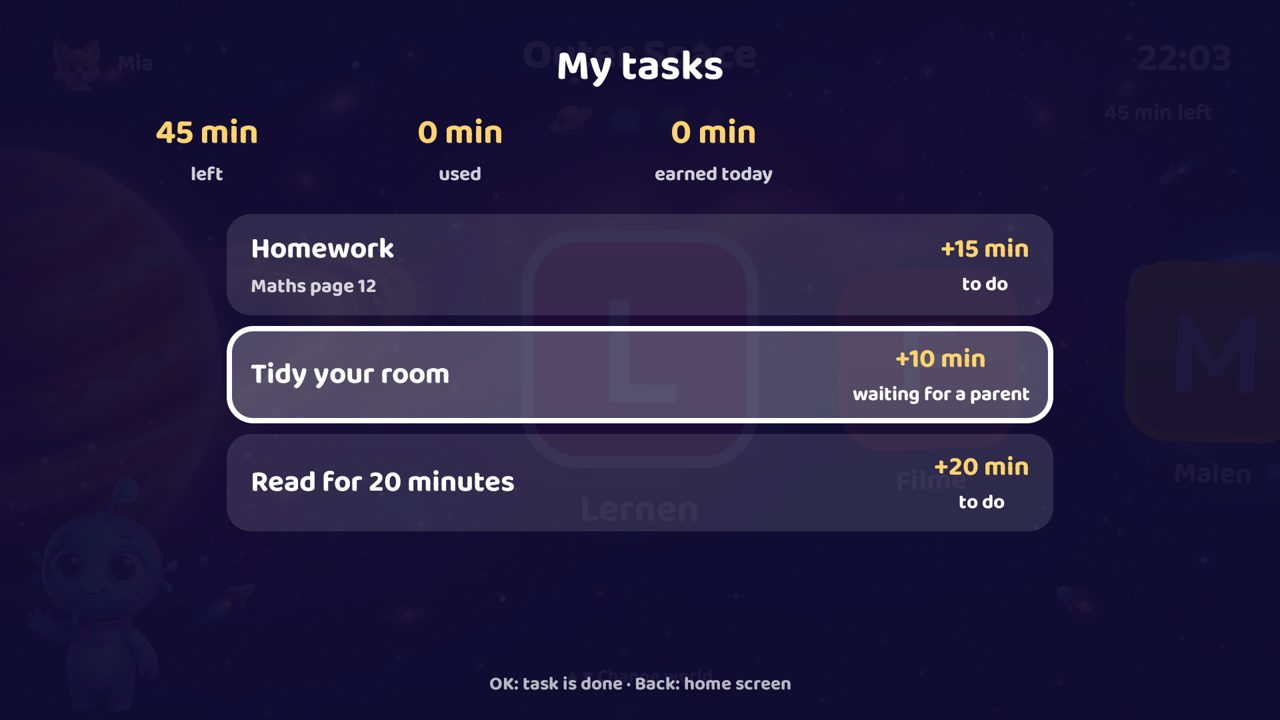
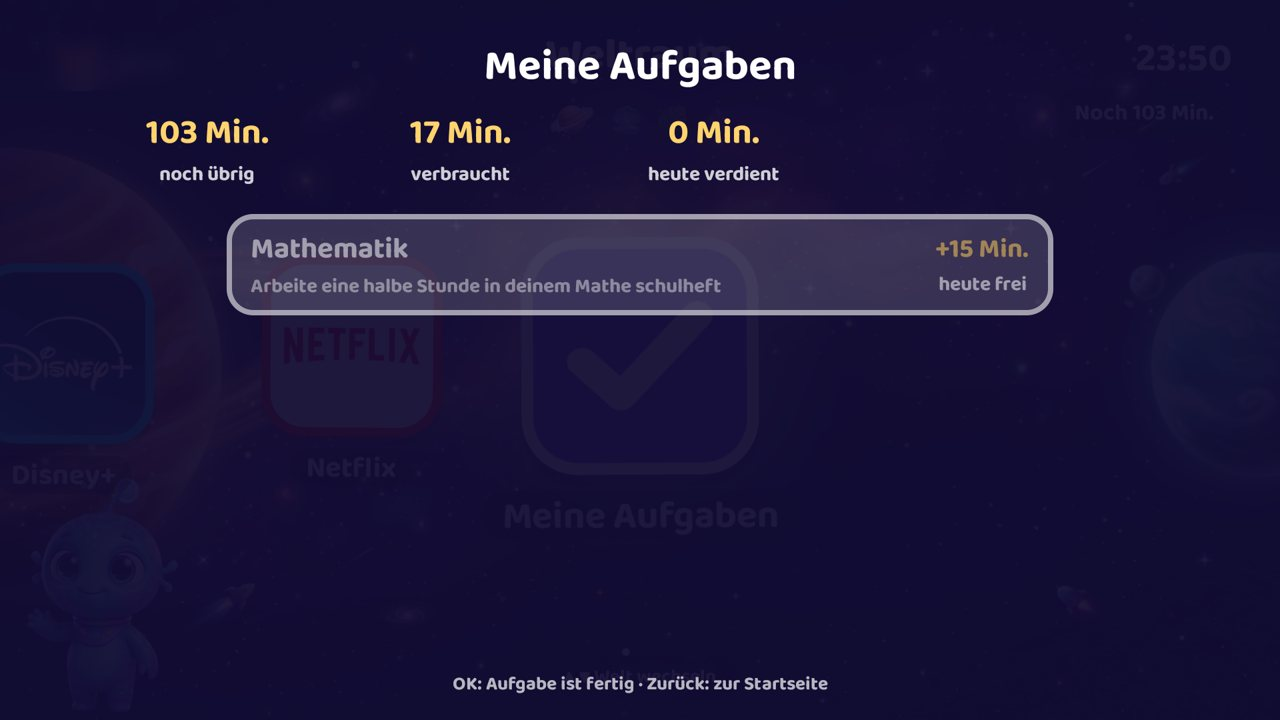
Guard failure visible, sessions end, local requests only, pictures from the stick

diff --git a/kidsmode/res/raw/sc_remote.html b/kidsmode/res/raw/sc_remote.html
@@ -46,13 +46,13 @@ label{display:block;font-size:14px;color:#d9d6ee}
 <script>
 var token=null,data=null,current=null,view='confirm',draft='',editing=null;
 var lang='%LANG%';
-var EN={"Eltern-PIN":"Parent PIN","Code vom Fernseher":"Code from the TV","Anmelden":"Sign in","KidsWorld Eltern":"Kids World Parents","Bestätigen":"Confirm","Aufgaben":"Tasks","Medienzeit":"Screen time","Nutzung":"Usage","Kinder":"Children","offen":"to do","wartet auf Bestätigung":"waiting for confirmation","bestätigt":"confirmed","abgelehnt":"rejected","Aufgabe":"Task","Korrektur":"Correction","Übertrag":"Carry-over","Uhr":"Clock","Keine Verbindung zum TV: TV aus, WLAN weg oder Wächter nicht aktiv. Die Anzeige ist nicht aktuell.":"No connection to the TV: TV off, no Wi-Fi or guard not running. This page is out of date.","Keine Verbindung zum TV. Bitte später prüfen, ob es gespeichert wurde.":"No connection to the TV. Please check later whether it was saved.","Zu viele Versuche. Bitte eine Minute warten.":"Too many attempts. Please wait a minute.","Bitte zuerst am TV eine PIN festlegen.":"Please set a PIN on the TV first.","Falscher Code":"Wrong code","Falsche PIN":"Wrong PIN","Dieses Handy ist neu: Bitte den Code vom Fernseher eingeben.":"This phone is new: please enter the code from the TV.","Keine offenen Bestätigungen.":"Nothing to confirm.","Begründung (freiwillig)":"Reason (optional)","Begründung":"Reason","Begründung: ":"Reason: ","Ablehnen":"Reject","Min.":"min","einmalig":"once","täglich":"daily","Neue Aufgabe":"New task","Noch keine Aufgaben.":"No tasks yet.","heute nicht dran":"not today"," · ohne Bestätigung":" · no confirmation","Bearbeiten":"Edit","Löschen":"Delete","Aufgabe löschen?":"Delete task?","Aufgabe bearbeiten":"Edit task","Neue Aufgabe für ":"New task for ","Beschreibung":"Description","Zusätzliche Minuten":"Extra minutes","Wiederholung (kein Tag gewählt = einmalig)":"Repeat (no day chosen = once)","Gültig bis (leer = unbegrenzt)":"Valid until (empty = no end)","Elternbestätigung nötig":"Parent confirmation needed","Ohne Bestätigung bekommt das Kind die Minuten sofort beim Melden.":"Without confirmation the child gets the minutes as soon as the task is reported.","Speichern":"Save","Abbrechen":"Cancel","Heute":"Today","Verfügbar ":"Available ",", genutzt ":", used ",", noch ":", left ",", heute verdient ":", earned today ","Kein Zeitkonto: Medienzeit ist unbegrenzt. Genutzt: ":"No time account: screen time is unlimited. Used: ","Grundzeit pro Tag (Minuten)":"Base time per day (minutes)","Maximale Zusatzzeit (0 = keine Grenze)":"Maximum extra time (0 = no limit)","Maximale Tageszeit (0 = keine Grenze)":"Maximum daily time (0 = no limit)","Medienzeitkonto":"Screen time account","Zeitkonto ein":"Time account on","Ungenutzte Zusatzminuten mitnehmen":"Carry over unused extra minutes","Mediennutzung erlaubt":"Screen time allowed","Von":"From","Bis":"To","Immer erlaubt":"Always allowed","Minuten, zum Beispiel 15 oder -10":"Minutes, for example 15 or -10","Grund":"Reason","Zeit korrigieren":"Correct time","Das Tagesmaximum gilt auch hier.":"The daily maximum applies here too.","Minuten":"Minutes","Buchen":"Apply","Links: aktiv, deaktiviert, Favorit. Rechts: ob die App Medienzeit kostet.":"Left: on, off, favourite. Right: whether the app uses screen time.","Favorit":"Favourite","aktiv":"on","deaktiviert":"off","kostenlos":"free","zählt":"counts","Letzte 7 Tage":"Last 7 days","Gestern":"Yesterday","Protokoll":"Log","Noch keine Einträge.":"No entries yet.","Kind":"Child","Name speichern":"Save name","Avatar wechseln":"Change avatar","Profil löschen":"Delete profile"," wirklich löschen?":": really delete?","Name des neuen Kindes":"New child's name","Neues Kind":"New child","Anlegen":"Add","an":"on","aus":"off","TV ist gesperrt":"TV is locked","TV ist frei":"TV is unlocked","Entsperren":"Unlock","Jetzt sperren":"Lock now","Zum Beispiel: Essen ist fertig!":"For example: Dinner is ready!","Nachricht":"Message","Nachricht an den TV":"Message to the TV","Senden":"Send","Neue PIN, 4 Ziffern":"New PIN, 4 digits","Neue PIN":"New PIN","Einstellungen":"Settings","Ruhige Animationen":"Calm animations","TV-Einstellungen (10 Minuten ohne Wächter)":"TV settings (10 minutes without guard)","Öffnen":"Open","PIN ändern":"Change PIN","PIN speichern":"Save PIN","Bitte 4 Ziffern eingeben":"Please enter 4 digits","Gekoppelte Handys: ":"Paired phones: ","Alle entfernen":"Remove all","Alle Handys entfernen? Sie müssen sich neu koppeln.":"Remove all phones? They will need to pair again."};
+var EN={"Eltern-PIN":"Parent PIN","Code vom Fernseher":"Code from the TV","Anmelden":"Sign in","KidsWorld Eltern":"Kids World Parents","Bestätigen":"Confirm","Aufgaben":"Tasks","Medienzeit":"Screen time","Nutzung":"Usage","Kinder":"Children","offen":"to do","wartet auf Bestätigung":"waiting for confirmation","bestätigt":"confirmed","abgelehnt":"rejected","Aufgabe":"Task","Korrektur":"Correction","Übertrag":"Carry-over","Uhr":"Clock","Wächter":"Guard","Keine Verbindung zum TV: TV aus, WLAN weg oder Wächter nicht aktiv. Die Anzeige ist nicht aktuell.":"No connection to the TV: TV off, no Wi-Fi or guard not running. This page is out of date.","Keine Verbindung zum TV. Bitte später prüfen, ob es gespeichert wurde.":"No connection to the TV. Please check later whether it was saved.","Zu viele Versuche. Bitte eine Minute warten.":"Too many attempts. Please wait a minute.","Bitte zuerst am TV eine PIN festlegen.":"Please set a PIN on the TV first.","Falscher Code":"Wrong code","Falsche PIN":"Wrong PIN","Dieses Handy ist neu: Bitte den Code vom Fernseher eingeben.":"This phone is new: please enter the code from the TV.","Keine offenen Bestätigungen.":"Nothing to confirm.","Begründung (freiwillig)":"Reason (optional)","Begründung":"Reason","Begründung: ":"Reason: ","Ablehnen":"Reject","Min.":"min","einmalig":"once","täglich":"daily","Neue Aufgabe":"New task","Noch keine Aufgaben.":"No tasks yet.","heute nicht dran":"not today"," · ohne Bestätigung":" · no confirmation","Bearbeiten":"Edit","Löschen":"Delete","Aufgabe löschen?":"Delete task?","Aufgabe bearbeiten":"Edit task","Neue Aufgabe für ":"New task for ","Beschreibung":"Description","Zusätzliche Minuten":"Extra minutes","Wiederholung (kein Tag gewählt = einmalig)":"Repeat (no day chosen = once)","Gültig bis (leer = unbegrenzt)":"Valid until (empty = no end)","Elternbestätigung nötig":"Parent confirmation needed","Ohne Bestätigung bekommt das Kind die Minuten sofort beim Melden.":"Without confirmation the child gets the minutes as soon as the task is reported.","Speichern":"Save","Abbrechen":"Cancel","Heute":"Today","Verfügbar ":"Available ",", genutzt ":", used ",", noch ":", left ",", heute verdient ":", earned today ","Kein Zeitkonto: Medienzeit ist unbegrenzt. Genutzt: ":"No time account: screen time is unlimited. Used: ","Grundzeit pro Tag (Minuten)":"Base time per day (minutes)","Maximale Zusatzzeit (0 = keine Grenze)":"Maximum extra time (0 = no limit)","Maximale Tageszeit (0 = keine Grenze)":"Maximum daily time (0 = no limit)","Medienzeitkonto":"Screen time account","Zeitkonto ein":"Time account on","Ungenutzte Zusatzminuten mitnehmen":"Carry over unused extra minutes","Mediennutzung erlaubt":"Screen time allowed","Von":"From","Bis":"To","Immer erlaubt":"Always allowed","Minuten, zum Beispiel 15 oder -10":"Minutes, for example 15 or -10","Grund":"Reason","Zeit korrigieren":"Correct time","Das Tagesmaximum gilt auch hier.":"The daily maximum applies here too.","Minuten":"Minutes","Buchen":"Apply","Links: aktiv, deaktiviert, Favorit. Rechts: ob die App Medienzeit kostet.":"Left: on, off, favourite. Right: whether the app uses screen time.","Favorit":"Favourite","aktiv":"on","deaktiviert":"off","kostenlos":"free","zählt":"counts","Letzte 7 Tage":"Last 7 days","Gestern":"Yesterday","Protokoll":"Log","Noch keine Einträge.":"No entries yet.","Kind":"Child","Name speichern":"Save name","Avatar wechseln":"Change avatar","Profil löschen":"Delete profile"," wirklich löschen?":": really delete?","Name des neuen Kindes":"New child's name","Neues Kind":"New child","Anlegen":"Add","an":"on","aus":"off","TV ist gesperrt":"TV is locked","TV ist frei":"TV is unlocked","Entsperren":"Unlock","Jetzt sperren":"Lock now","Zum Beispiel: Essen ist fertig!":"For example: Dinner is ready!","Nachricht":"Message","Nachricht an den TV":"Message to the TV","Senden":"Send","Neue PIN, 4 Ziffern":"New PIN, 4 digits","Neue PIN":"New PIN","Einstellungen":"Settings","Ruhige Animationen":"Calm animations","TV-Einstellungen (10 Minuten ohne Wächter)":"TV settings (10 minutes without guard)","Öffnen":"Open","PIN ändern":"Change PIN","PIN speichern":"Save PIN","Bitte 4 Ziffern eingeben":"Please enter 4 digits","Gekoppelte Handys: ":"Paired phones: ","Alle entfernen":"Remove all","Alle Handys entfernen? Sie müssen sich neu koppeln.":"Remove all phones? They will need to pair again."};
 function t(s){return lang=='en'&&EN[s]!==undefined?EN[s]:s}
 var dayNames=lang=='en'?['Mon','Tue','Wed','Thu','Fri','Sat','Sun']:['Mo','Di','Mi','Do','Fr','Sa','So'];
 document.documentElement.lang=lang;document.title=t('KidsWorld Eltern');['hd','lpin','lcode','go'].forEach(function(i){var e=document.getElementById(i);e.textContent=t(e.textContent)});
 var views=[['confirm','Bestätigen'],['tasks','Aufgaben'],['time','Medienzeit'],['usage','Nutzung'],['kids','Kinder'],['tv','TV']];
 var statusText={OFFEN:'offen',WARTET:'wartet auf Bestätigung',BESTAETIGT:'bestätigt',ABGELEHNT:'abgelehnt'};
-var kindText={AUFGABE:'Aufgabe',KORREKTUR:'Korrektur',UEBERTRAG:'Übertrag',UHR:'Uhr'};
+var kindText={AUFGABE:'Aufgabe',KORREKTUR:'Korrektur',UEBERTRAG:'Übertrag',UHR:'Uhr',WAECHTER:'Wächter'};
 function el(tag,a,c){var e=document.createElement(tag);for(var k in a||{}){if(k=='on')e.onclick=a[k];else if(k=='text')e.textContent=t(a[k]);else if(k=='raw')e.textContent=a[k];else if(k=='placeholder'||k=='aria-label')e.setAttribute(k,t(a[k]));else if(k=='value')e.value=a[k];else if(k=='checked')e.checked=a[k];else e.setAttribute(k,a[k]);}(c||[]).forEach(function(x){if(x)e.appendChild(x)});return e;}
 function form(p){return Object.keys(p||{}).map(function(k){return encodeURIComponent(k)+'='+encodeURIComponent(p[k])}).join('&');}
 function post(path,params){var h={'Content-Type':'application/x-www-form-urlencoded'};if(token)h['X-Token']=token;
@@ -148,7 +148,7 @@ c.days.forEach(function(m,i){s.appendChild(el('div',{'class':'row'},[el('span',{
 root.appendChild(s);
 var l=el('section',{},[el('h2',{text:'Protokoll'})]);
 if(!data.log.length)l.appendChild(el('p',{'class':'muted',text:'Noch keine Einträge.'}));
-data.log.forEach(function(e){l.appendChild(el('div',{'class':'row'},[el('span',{raw:new Date(e.time).toLocaleString(lang=='en'?'en-GB':'de-DE',{dateStyle:'short',timeStyle:'short'})+' · '+(e.kid?e.kid+' · ':'')+t(kindText[e.kind])+': '+e.note}),el('strong',{raw:e.kind=='UHR'?'':(e.minutes>0?'+':'')+e.minutes})]));});
+data.log.forEach(function(e){l.appendChild(el('div',{'class':'row'},[el('span',{raw:new Date(e.time).toLocaleString(lang=='en'?'en-GB':'de-DE',{dateStyle:'short',timeStyle:'short'})+' · '+(e.kid?e.kid+' · ':'')+t(kindText[e.kind])+': '+e.note}),el('strong',{raw:!e.minutes?'':(e.minutes>0?'+':'')+e.minutes})]));});
 root.appendChild(l);
 }
 function vKids(root){

diff --git a/kidsmode/java/io/github/dariusquack/kidsworld/addon/kidsmode/KidsRemote.java b/kidsmode/java/io/github/dariusquack/kidsworld/addon/kidsmode/KidsRemote.java
@@ -59,7 +59,7 @@ public final class KidsRemote {
     }
 
     private static final class Request {
-        String method, path, token;
+        String method, path, token, host, origin;
         Map<String, String> params = new HashMap<>();
     }
 
@@ -71,7 +71,7 @@ public final class KidsRemote {
     private final KidsDb db;
     private final SharedPreferences devices;
     private final SecureRandom random = new SecureRandom();
-    private final Map<String, Long> sessions = new HashMap<>();
+    private static final Map<String, Long> sessions = new HashMap<>();
     private final ExecutorService workers = Executors.newFixedThreadPool(6);
     private List<AppEntry> apps = new ArrayList<>();
     private long appsAt;
@@ -139,6 +139,8 @@ public final class KidsRemote {
         KidsLanguage.apply(ctx);
         if (r == null) {
             send(out, "400 Bad Request", "text/plain", new byte[0]);
+        } else if (!RemoteText.localRequest(r.host, r.origin)) {
+            send(out, "403 Forbidden", "text/plain", new byte[0]);
         } else if (r.method.equals("GET")) {
             if (r.path.equals("/")) {
                 String page = new String(readAll(ctx.getResources().openRawResource(R.raw.sc_remote)), StandardCharsets.UTF_8);
@@ -192,6 +194,8 @@ public final class KidsRemote {
             String name = line.substring(0, colon).trim().toLowerCase(), value = line.substring(colon + 1).trim();
             if (name.equals("content-length")) length = RemoteText.number(value, 0);
             if (name.equals("x-token")) r.token = value;
+            if (name.equals("host")) r.host = value;
+            if (name.equals("origin")) r.origin = value;
         }
         if (length < 0 || length > MAX_REQUEST) return null;
         byte[] body = new byte[length];
@@ -320,6 +324,14 @@ public final class KidsRemote {
     /** Alle gekoppelten Handys entfernen. */
     public static void forgetDevices(Context ctx) {
         ctx.getSharedPreferences(DEVICES, Context.MODE_PRIVATE).edit().clear().apply();
+        endSessions();
+    }
+
+    /** Beendet alle offenen Anmeldungen, etwa nach einer neuen PIN. */
+    public static void endSessions() {
+        synchronized (sessions) {
+            sessions.clear();
+        }
     }
 
     // ---------- Daten ----------
@@ -460,6 +472,7 @@ public final class KidsRemote {
             case "pin":
                 if (!PinHash.valid(q.get("v"))) return ctx.getString(R.string.sc_err_pin);
                 lock.setPin(q.get("v"));
+                endSessions();
                 return null;
             case "devices":
                 forgetDevices(ctx);

diff --git a/theme/java/io/github/dariusquack/kidsworld/kids/KidsTheme.java b/theme/java/io/github/dariusquack/kidsworld/kids/KidsTheme.java
@@ -32,6 +32,7 @@ import io.github.dariusquack.kidsworld.IconColors;
 import io.github.dariusquack.kidsworld.addon.kidsmode.KidsArt;
 import io.github.dariusquack.kidsworld.addon.kidsmode.KidsDb;
 import io.github.dariusquack.kidsworld.addon.kidsmode.KidsGate;
+import io.github.dariusquack.kidsworld.addon.kidsmode.KidsGuard;
 import io.github.dariusquack.kidsworld.addon.kidsmode.KidsLanguage;
 import io.github.dariusquack.kidsworld.addon.kidsmode.KidsLock;
 import io.github.dariusquack.kidsworld.addon.kidsmode.KidsProfile;
@@ -107,6 +108,7 @@ public final class KidsTheme implements HomeTheme {
             @Override
             public void onLaunch(int index) {
                 if (index >= shown.size()) showTasks();
+                else if (guardMissing(shown.get(index).pkg)) showToast(host.getString(R.string.sc_kids_call_parents), false);
                 else if (gate.mayRun(shown.get(index).pkg)) host.launch(shown.get(index));
                 else if (gate.block() == KidsTime.Block.LIMIT) showToast(host.getString(R.string.sc_kids_limit_text), false);
                 else checkGate();
@@ -212,6 +214,13 @@ public final class KidsTheme implements HomeTheme {
 
     private void markTask(KidsDb.Task t) {
         if (db.markDone(profiles.active(), t.id)) refreshTasks();
+    }
+
+    /** Ohne Wächter zählt keine Zeit: Zählende Apps starten dann nicht, bis die Eltern es geprüft haben. */
+    private boolean guardMissing(String pkg) {
+        if (KidsGuard.running() || profiles.active().free.contains(pkg)) return false;
+        lock.markGuardDown();
+        return true;
     }
 
     private void closeTasks() {

diff --git a/kidsmode/java/io/github/dariusquack/kidsworld/addon/kidsmode/KidsDb.java b/kidsmode/java/io/github/dariusquack/kidsworld/addon/kidsmode/KidsDb.java
@@ -21,7 +21,7 @@ import java.util.List;
  */
 public final class KidsDb extends SQLiteOpenHelper {
     public static final String OPEN = "OFFEN", WAITING = "WARTET", DONE = "BESTAETIGT", REJECTED = "ABGELEHNT";
-    public static final String TASK = "AUFGABE", CORRECTION = "KORREKTUR", CARRY = "UEBERTRAG", CLOCK = "UHR";
+    public static final String TASK = "AUFGABE", CORRECTION = "KORREKTUR", CARRY = "UEBERTRAG", CLOCK = "UHR", GUARD = "WAECHTER";
 
     private static final String PREFS = "sc_kids_clock";
     private static KidsDb instance;
@@ -95,6 +95,11 @@ public final class KidsDb extends SQLiteOpenHelper {
         if (jump != 0) log("", day, 0, CLOCK, app.getString(R.string.sc_log_clock, (int) (jump / 60_000)));
         clock.edit().putLong("wall", wall).putLong("elapsed", elapsed).putInt("day", day).apply();
         return day;
+    }
+
+    /** Vermerkt im Protokoll, dass der Wächter aus war. */
+    public synchronized void logGuard(String note) {
+        log("", today(), 0, GUARD, note);
     }
 
     private void log(String kid, int day, int minutes, String kind, String note) {
@@ -179,7 +184,7 @@ public final class KidsDb extends SQLiteOpenHelper {
                 e.kind = c.getString(4);
                 e.note = c.getString(5);
                 e.time = c.getLong(6);
-                if (e.minutes != 0 || CLOCK.equals(e.kind)) out.add(e);
+                if (e.minutes != 0 || CLOCK.equals(e.kind) || GUARD.equals(e.kind)) out.add(e);
             }
         }
         return out;

diff --git a/kidsmode/java/io/github/dariusquack/kidsworld/addon/kidsmode/KidsGuard.java b/kidsmode/java/io/github/dariusquack/kidsworld/addon/kidsmode/KidsGuard.java
@@ -25,7 +25,9 @@ import android.widget.TextView;
 
 import com.gathin.tvhome.R;
 
+import java.text.DateFormat;
 import java.util.Arrays;
+import java.util.Date;
 import java.util.HashSet;
 import java.util.Set;
 
@@ -67,6 +69,9 @@ public final class KidsGuard extends AccessibilityService {
 
     /** So oft wird die Nutzungszeit fortgeschrieben; lange Abstände sparen Rechenzeit. */
     private static final long TICK_MS = 30_000;
+
+    /** Läuft der Wächter gerade? Er teilt sich den Prozess mit der Startseite, das ist also der echte Stand. */
+    private static volatile boolean running;
 
     private KidsLock lock;
     private KidsProfiles profiles;
@@ -130,6 +135,15 @@ public final class KidsGuard extends AccessibilityService {
         });
         remote.start();
         settings = KidsLock.settingsPackages(this);
+        running = true;
+        long down = lock.takeGuardDown();
+        if (down > 0) {
+            db.logGuard(getString(R.string.sc_log_guard, DateFormat.getDateTimeInstance(DateFormat.SHORT, DateFormat.SHORT).format(new Date(down))));
+        }
+    }
+
+    public static boolean running() {
+        return running;
     }
 
     @Override
@@ -257,6 +271,7 @@ public final class KidsGuard extends AccessibilityService {
 
     @Override
     public void onDestroy() {
+        running = false;
         handler.removeCallbacks(tick);
         if (db != null) unregisterReceiver(screen);
         if (remote != null) remote.stop();

diff --git a/kidsmode/java/io/github/dariusquack/kidsworld/addon/kidsmode/KidsLock.java b/kidsmode/java/io/github/dariusquack/kidsworld/addon/kidsmode/KidsLock.java
@@ -25,6 +25,7 @@ public final class KidsLock {
     private static final String PREFS = "sc_kids";
     private static final String KEY_CALM = "calm_motion";
     private static final String KEY_LANGUAGE = "language";
+    private static final String KEY_GUARD_DOWN = "guard_down_since";
     private static final String KEY_SALT = "pin_salt";
     private static final String KEY_HASH = "pin_hash";
     private static final String KEY_FAILS = "pin_fails";
@@ -42,6 +43,18 @@ public final class KidsLock {
     }
 
     /** Ruhige Animationen: weniger Bewegung und keine Überraschungen. */
+    /** Die Startseite merkt sich, seit wann sie den Wächter vermisst; der erste Zeitpunkt bleibt. */
+    public void markGuardDown() {
+        if (!prefs.contains(KEY_GUARD_DOWN)) prefs.edit().putLong(KEY_GUARD_DOWN, System.currentTimeMillis()).apply();
+    }
+
+    /** Ergibt den gemerkten Zeitpunkt und löscht ihn; 0 wenn nichts vorlag. */
+    public long takeGuardDown() {
+        long since = prefs.getLong(KEY_GUARD_DOWN, 0);
+        prefs.edit().remove(KEY_GUARD_DOWN).apply();
+        return since;
+    }
+
     public String language() {
         return prefs.getString(KEY_LANGUAGE, KidsLanguage.AUTO);
     }

diff --git a/kidsmode/java/io/github/dariusquack/kidsworld/addon/kidsmode/ParentActivity.java b/kidsmode/java/io/github/dariusquack/kidsworld/addon/kidsmode/ParentActivity.java
@@ -205,6 +205,7 @@ public final class ParentActivity extends Activity {
             case REPEAT:
                 if (pin.equals(firstPin)) {
                     lock.setPin(pin);
+                    KidsRemote.endSessions();
                     firstPin = null;
                     showMenu();
                     return;
@@ -226,7 +227,7 @@ public final class ParentActivity extends Activity {
         mode = null;
         root.removeAllViews();
         root.addView(text(getString(R.string.sc_parent_title), 30, medium, Color.WHITE));
-        boolean guard = lock.guardEnabled();
+        boolean guard = KidsGuard.running();
         TextView status = text(getString(guard ? R.string.sc_parent_guard_on : R.string.sc_parent_guard_off), 15,
                 regular, guard ? 0xFF7CF5B0 : 0xFFFFB37A);
         status.setPadding(0, dp(6), 0, dp(4));

diff --git a/kidsmode/test/io/github/dariusquack/kidsworld/addon/kidsmode/RemoteTextTest.java b/kidsmode/test/io/github/dariusquack/kidsworld/addon/kidsmode/RemoteTextTest.java
@@ -48,4 +48,14 @@ public class RemoteTextTest {
         assertFalse(RemoteText.safeArt("avatare/../x.png"));
         assertFalse(RemoteText.safeArt("hintergruende/x.png"));
     }
+
+    @Test
+    public void onlyLocalRequests() {
+        assertTrue(RemoteText.localRequest("192.168.1.50:8686", null));
+        assertTrue(RemoteText.localRequest("192.168.1.50:8686", "http://192.168.1.50:8686"));
+        assertTrue(RemoteText.localRequest("localhost:8686", null));
+        assertFalse(RemoteText.localRequest("evil.example:8686", null));
+        assertFalse(RemoteText.localRequest("192.168.1.50:8686", "http://evil.example"));
+        assertFalse(RemoteText.localRequest(null, null));
+    }
 }

diff --git a/kidsmode/java/io/github/dariusquack/kidsworld/addon/kidsmode/RemoteText.java b/kidsmode/java/io/github/dariusquack/kidsworld/addon/kidsmode/RemoteText.java
@@ -41,6 +41,15 @@ final class RemoteText {
         return b.append('"').toString();
     }
 
+    /**
+     * Kommt die Anfrage über die Adresse des TVs im Heimnetz? Ein Hostname deutet auf DNS-Rebinding hin, ein fremdes
+     * Origin auf eine andere Webseite.
+     */
+    static boolean localRequest(String host, String origin) {
+        if (host == null || !host.matches("((\\d{1,3}\\.){3}\\d{1,3}|localhost)(:\\d+)?")) return false;
+        return origin == null || origin.equals("http://" + host);
+    }
+
     static String limited(String s, int max) {
         return s.length() > max ? s.substring(0, max) : s;
     }

diff --git a/README.md b/README.md
@@ -20,7 +20,7 @@ The app follows the TV's language: English, or German on a German TV. A parent c
 | ![Turning apps on and off](media/parent-apps.jpg) | ![Phone page: tasks](media/phone-tasks.jpg) |
 | ![Phone page: screen time](media/phone-time.jpg) | |
 
-The pictures come from the Android TV emulator with sample data. The network address in the parent area is blurred.
+The GIF and the world and task pictures come from a waipu tv stick. The parent area, profile and phone pictures come from the emulator with sample data. Child names and the network address are blurred.
 
 ## What it does
 
@@ -96,7 +96,9 @@ No accounts, telemetry, ads or analytics. Data stays on the TV.
 - This is a hurdle for children, not a guarantee. Android offers an app like this no system-wide lock.
 - The phone page uses plain HTTP. See [SECURITY.md](SECURITY.md).
 - A force-stop in Android's settings turns the guard off, and turning the setting back on is not enough: it runs again
-  after the next reboot or reinstall. The parent area shows the setting, and the phone page stops responding.
+  after the next reboot or reinstall. The parent area shows the real state, counted apps
+  no longer start, the home screen asks for a parent, and the log records it once the guard is back. The phone page
+  stops responding meanwhile.
 - Time counts while a counted app is in front, including a paused video.
 - A clock set back gives no new day. A clock set forward starts a new day, and that day then stays until the real date
   catches up. Settings stay behind the PIN for that reason.
@@ -116,5 +118,4 @@ Remote keys, HDMI and live TV are still being tested with [this sheet](docs/REMO
 ## Licence and credits
 
 MIT, see [LICENSE](LICENSE). Base launcher: [Clean Your TV](https://github.com/Gathin23/cleanyourtv) by Gathin, MIT.
-Fonts: SIL Open Font License, see `FONT-LICENSE-OFL.txt` and `theme/FONT-LICENSE-Baloo2-OFL.txt`. Pictures: made with
-Google Gemini for this project.
+Fonts: SIL Open Font License, see `FONT-LICENSE-OFL.txt` and `theme/FONT-LICENSE-Baloo2-OFL.txt`.

diff --git a/SECURITY.md b/SECURITY.md
@@ -9,14 +9,14 @@ Kids World is a hurdle for children. It is not a security product.
 - A paired phone keeps a random device key. The TV stores only a hash of it.
 - After sign-in, each request needs a random session token that lasts one hour.
 - Five wrong PINs lock the PIN for one minute.
+- Removing paired phones or changing the PIN ends all open sessions.
+- Requests must use the TV's IP address, and requests from other web pages are refused.
 
 ## What it does not protect
 
 - The page uses plain HTTP. The PIN, device key and session token travel unencrypted, so someone who can read traffic on
   your network can capture them. Use a home network you trust, and do not forward port 8686 to the internet.
 - Anyone on the network can use up the PIN attempts. That locks the PIN on the TV for a minute too.
-- Removing paired phones or changing the PIN does not end sessions that are already open. They end after an hour, or
-  when the guard restarts.
 - The server listens on every network of the device, including a VPN if one runs on it.
 
 Report a security problem through this repository's issue tracker. Do not post a PIN or device key there.
